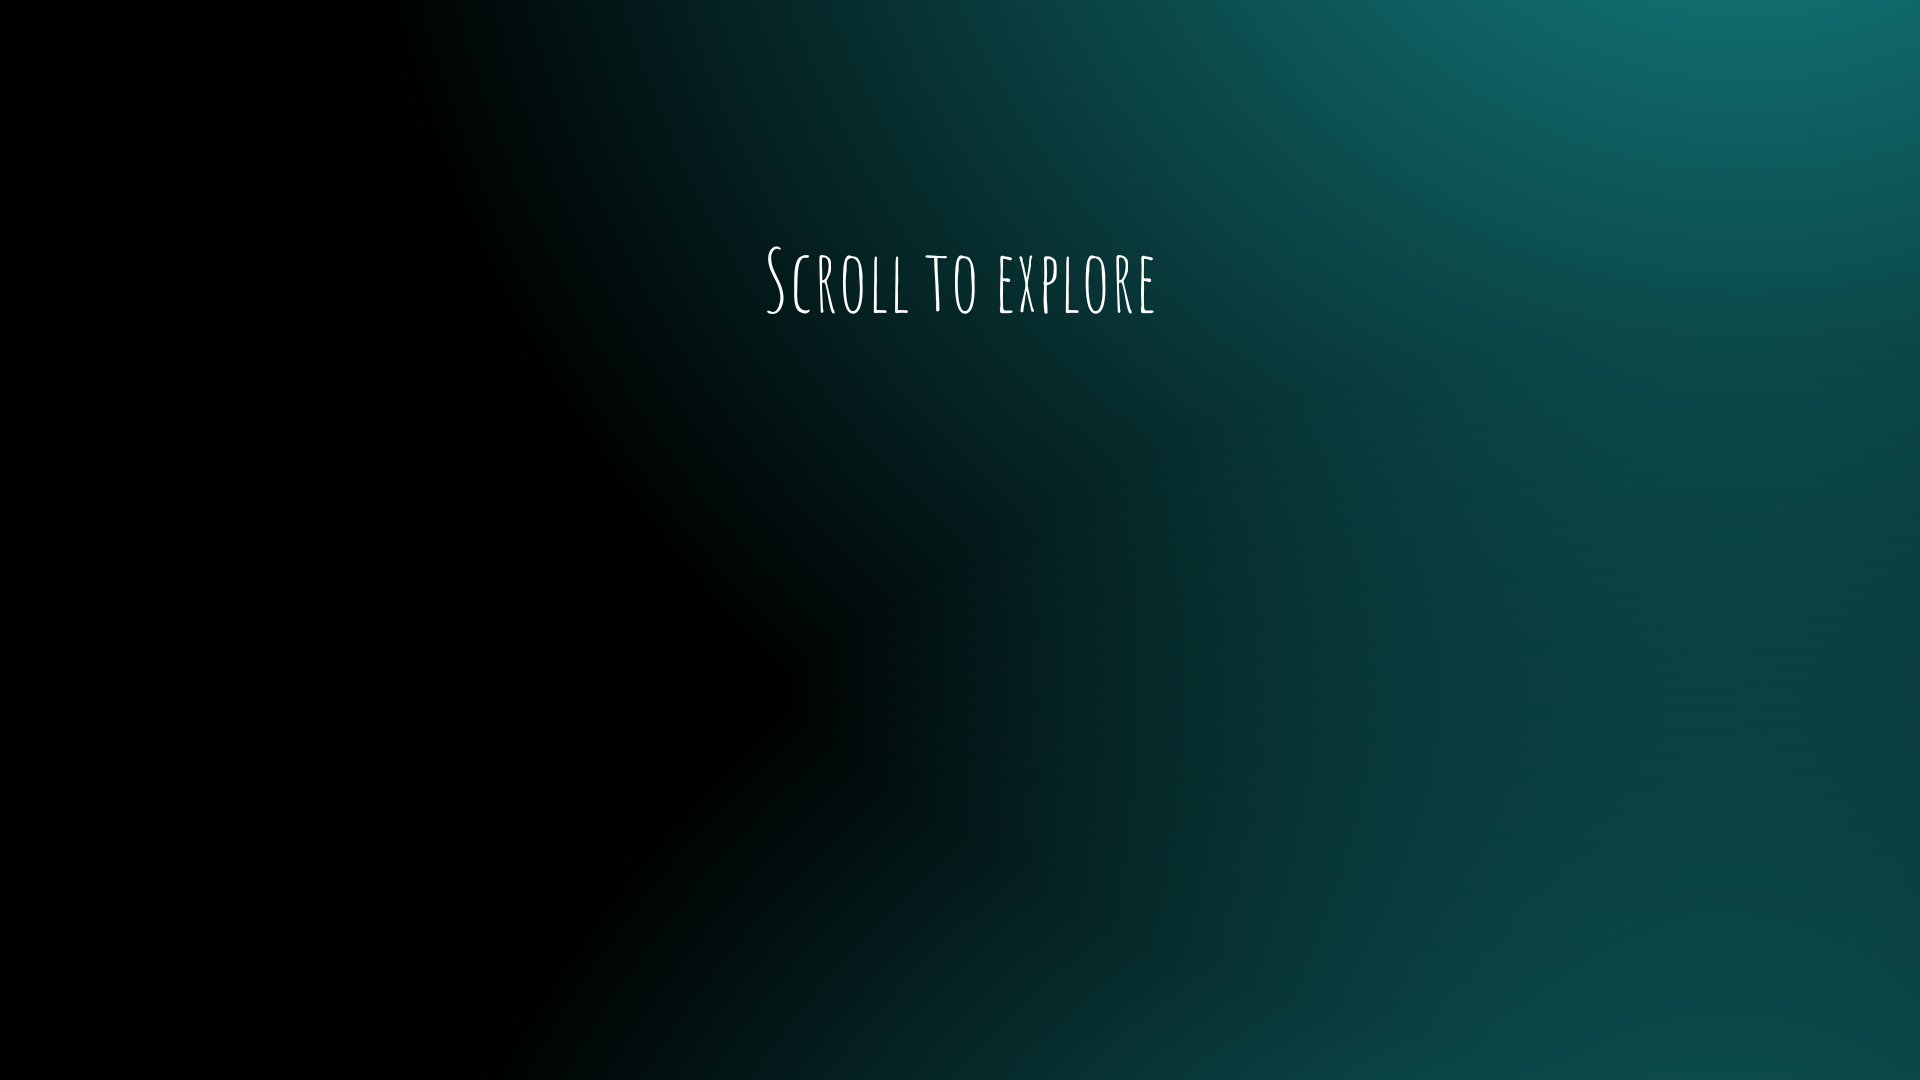
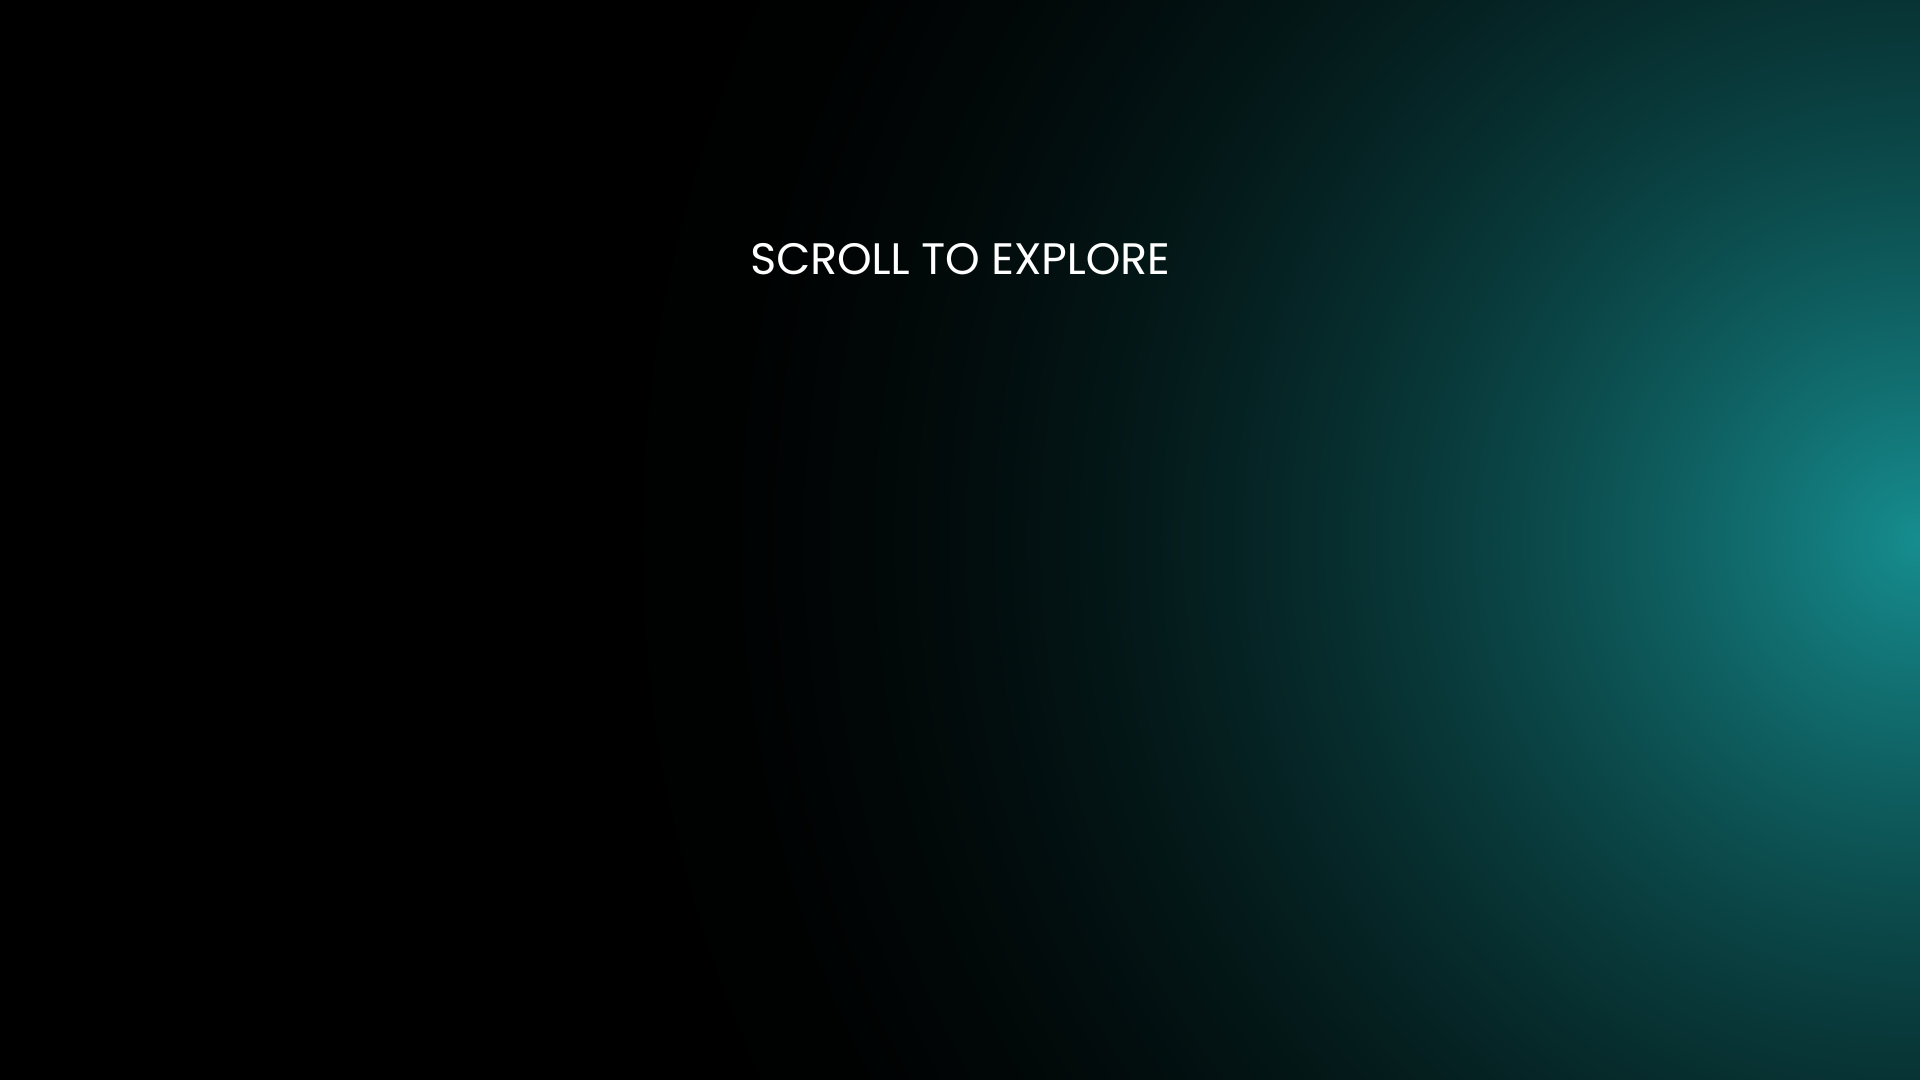
new trial, part 4, looking bettergit add .

Changed region(s): [[0.3125, 0.0, 1.0, 0.3667], [0.8438, 0.275, 1.0, 0.7639], [0.4062, 0.825, 0.9375, 1.0]]

diff --git a/styles2.css b/styles2.css
@@ -365,7 +365,7 @@ font-weight: 400;
 .header h1 {
 color: #fff;
 text-transform: uppercase;
-font-family: "Schabo";
+font-family: "Poppins";
 font-size: 500px;
 font-weight: lighter;
 line-height: 100%;
